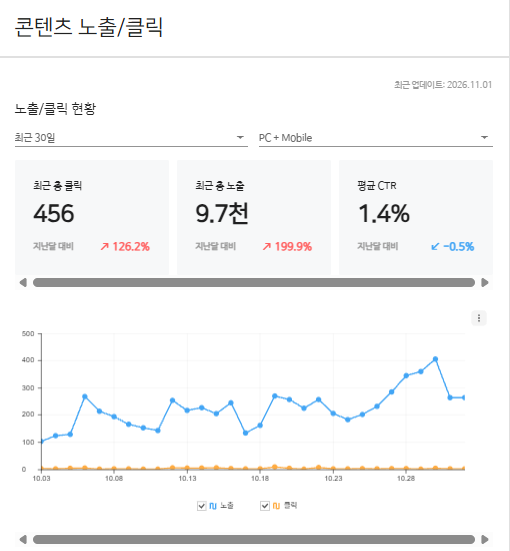
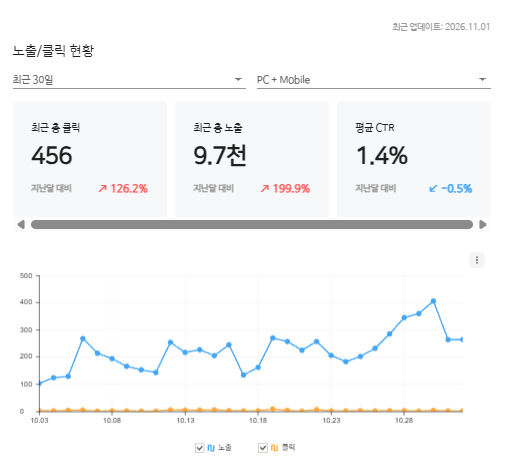
가독성: 문단 2문장씩 분리, 한글 단어 단위 줄바꿈(keep-all), 문단·섹션 간격 / 고객사 B 캡처 상단 제목 잘라 A와 높이 맞춤

diff --git a/app/웹문서/[slug]/page.tsx b/app/웹문서/[slug]/page.tsx
@@ -1,5 +1,6 @@
 import type { Metadata } from 'next';
 import Link from 'next/link';
+import Paras from '../../../components/webdoc/Paras';
 import { notFound } from 'next/navigation';
 import { ogMeta } from '../../../lib/site';
 import {
@@ -237,7 +238,7 @@ function IndustryPage({ ind }: { ind: IndustryDoc & WebdocPage }) {
         <section className="content-section">
           <h2>{c.whyH2}</h2>
           {c.why.map((t) => (
-            <p key={t} className="wd-p">{t}</p>
+            <Paras key={t} text={t} />
           ))}
           {homepageHref && (
             <p className="wd-p">
@@ -272,7 +273,7 @@ function IndustryPage({ ind }: { ind: IndustryDoc & WebdocPage }) {
 
         <section className="content-section">
           <h2>{c.howH2}</h2>
-          <p className="wd-p">{c.how}</p>
+          <Paras text={c.how} />
           <table className="wd-table">
             <thead>
               <tr>
@@ -294,7 +295,7 @@ function IndustryPage({ ind }: { ind: IndustryDoc & WebdocPage }) {
 
         <section className="content-section">
           <h2>{c.serpH2}</h2>
-          <p className="wd-p">{c.serpText}</p>
+          <Paras text={c.serpText} />
           <SerpMock query={query} items={c.examples.slice(1, 3)} desc={c.serpDesc} />
         </section>
 
@@ -386,15 +387,13 @@ function ServicePage({ svc }: { svc: ServiceDoc & WebdocPage }) {
         <section className="content-section">
           <h2>{c.whatH2}</h2>
           {c.what.map((t) => (
-            <p key={t} className="wd-p">
-              {t}
-            </p>
+            <Paras key={t} text={t} />
           ))}
         </section>
 
         <section className="content-section">
           <h2>{c.pageH2}</h2>
-          <p className="wd-p">{c.page}</p>
+          <Paras text={c.page} />
           <table className="wd-table">
             <thead>
               <tr>
@@ -416,7 +415,7 @@ function ServicePage({ svc }: { svc: ServiceDoc & WebdocPage }) {
 
         <section className="content-section">
           <h2>{c.serpH2}</h2>
-          <p className="wd-p">{c.serpText}</p>
+          <Paras text={c.serpText} />
           <SerpMock query={c.examples[0]} items={c.examples.slice(1, 3)} desc={c.serpDesc} />
         </section>
 
@@ -434,7 +433,7 @@ function ServicePage({ svc }: { svc: ServiceDoc & WebdocPage }) {
 
         <section className="content-section">
           <h2>{c.bundleH2}</h2>
-          <p className="wd-p">{c.bundle}</p>
+          <Paras text={c.bundle} />
         </section>
 
         <Faq title={`${svc.name} 웹문서 자주 묻는 질문`} faq={c.faq} />
@@ -473,7 +472,7 @@ function GroupPage({ g }: { g: GroupDoc & WebdocPage }) {
           <p className="page-lead">{c.description}</p>
         </header>
         <Summary items={c.summary} />
-        {c.intro && <p className="wd-p">{c.intro}</p>}
+        {c.intro && <Paras text={c.intro} />}
         <section className="content-section">
           <h2>{g.group} 업종별 웹문서 구성</h2>
           <div className="static-faq">

diff --git a/app/content-pages.css b/app/content-pages.css
@@ -811,3 +811,19 @@
 .wd-case-won { color: var(--accent); font-weight: 700; }
 .wd-case-note { color: var(--text-muted); opacity: 1; }
 @media (max-width: 700px) { .wd-case-grid { grid-template-columns: 1fr; } .wd-case { padding: 18px 16px; } }
+
+/* ===== 가독성: 한글 단어 단위 줄바꿈, 문단 간격 ===== */
+.content-page { word-break: keep-all; overflow-wrap: break-word; }
+.content-page .wd-p, .content-page .prose p, .content-page .static-faq .qa p, .content-page .feature-card p { line-height: 1.9; }
+.wd-p { font-size: 1.02rem; margin: 0 0 16px; }
+.content-section { margin-bottom: 52px; }
+.content-section h2 { line-height: 1.45; }
+.wd-summary li { margin: 6px 0; }
+.wd-table td, .wd-table th { line-height: 1.65; vertical-align: top; }
+.wd-table-plain td:first-child { white-space: nowrap; font-weight: 600; }
+.feature-card p { font-size: 0.95rem; }
+@media (max-width: 600px) {
+  .wd-p { font-size: 1rem; }
+  .wd-table-plain td:first-child { white-space: normal; }
+  .content-section { margin-bottom: 40px; }
+}

diff --git a/components/webdoc/CaseStudy.tsx b/components/webdoc/CaseStudy.tsx
@@ -1,7 +1,7 @@
 // 실제 고객사 사례 — JD8이 웹문서를 제작한 고객사 사이트 2곳(업체명 비공개)의 네이버 서치어드바이저 캡처(2026.11.01 기준, 최근 30일). 숫자는 캡처 그대로.
 const CASES = [
   { id: 'A', img: '/images/webdoc/case-a.png', w: 507, h: 472, clicks: '300', imp: '2.5만', clickUp: '+126.9%', impUp: '+337.3%' },
-  { id: 'B', img: '/images/webdoc/case-b.png', w: 510, h: 551, clicks: '456', imp: '9.7천', clickUp: '+126.2%', impUp: '+199.9%' },
+  { id: 'B', img: '/images/webdoc/case-b.png', w: 507, h: 472, clicks: '456', imp: '9.7천', clickUp: '+126.2%', impUp: '+199.9%' },
 ];
 
 export default function CaseStudy() {

diff --git a/components/webdoc/Paras.tsx b/components/webdoc/Paras.tsx
@@ -1,0 +1,15 @@
+// 긴 조합 문단을 2문장씩 끊어 여러 문단으로 — 모바일에서 한 덩어리 글이 되지 않게
+export default function Paras({ text, per = 2 }: { text: string; per?: number }) {
+  const sentences = text.split(/(?<=[다요]\.)\s+/).filter(Boolean);
+  const chunks: string[] = [];
+  for (let i = 0; i < sentences.length; i += per) chunks.push(sentences.slice(i, i + per).join(' '));
+  return (
+    <>
+      {chunks.map((c, i) => (
+        <p key={i} className="wd-p">
+          {c}
+        </p>
+      ))}
+    </>
+  );
+}

diff --git a/components/webdoc/HomepageGenPage.tsx b/components/webdoc/HomepageGenPage.tsx
@@ -1,4 +1,5 @@
 import Link from 'next/link';
+import Paras from './Paras';
 import JsonLd from '../seo/JsonLd';
 import {
   buildHomepageContent,
@@ -113,7 +114,7 @@ export default function HomepageGenPage({ doc }: { doc: HomepageGenDoc }) {
 
         <section className="content-section">
           <h2>{doc.name} 홈페이지 비용과 기간</h2>
-          <p className="wd-p">{c.cost}</p>
+          <Paras text={c.cost} />
         </section>
 
         <section className="content-section">
